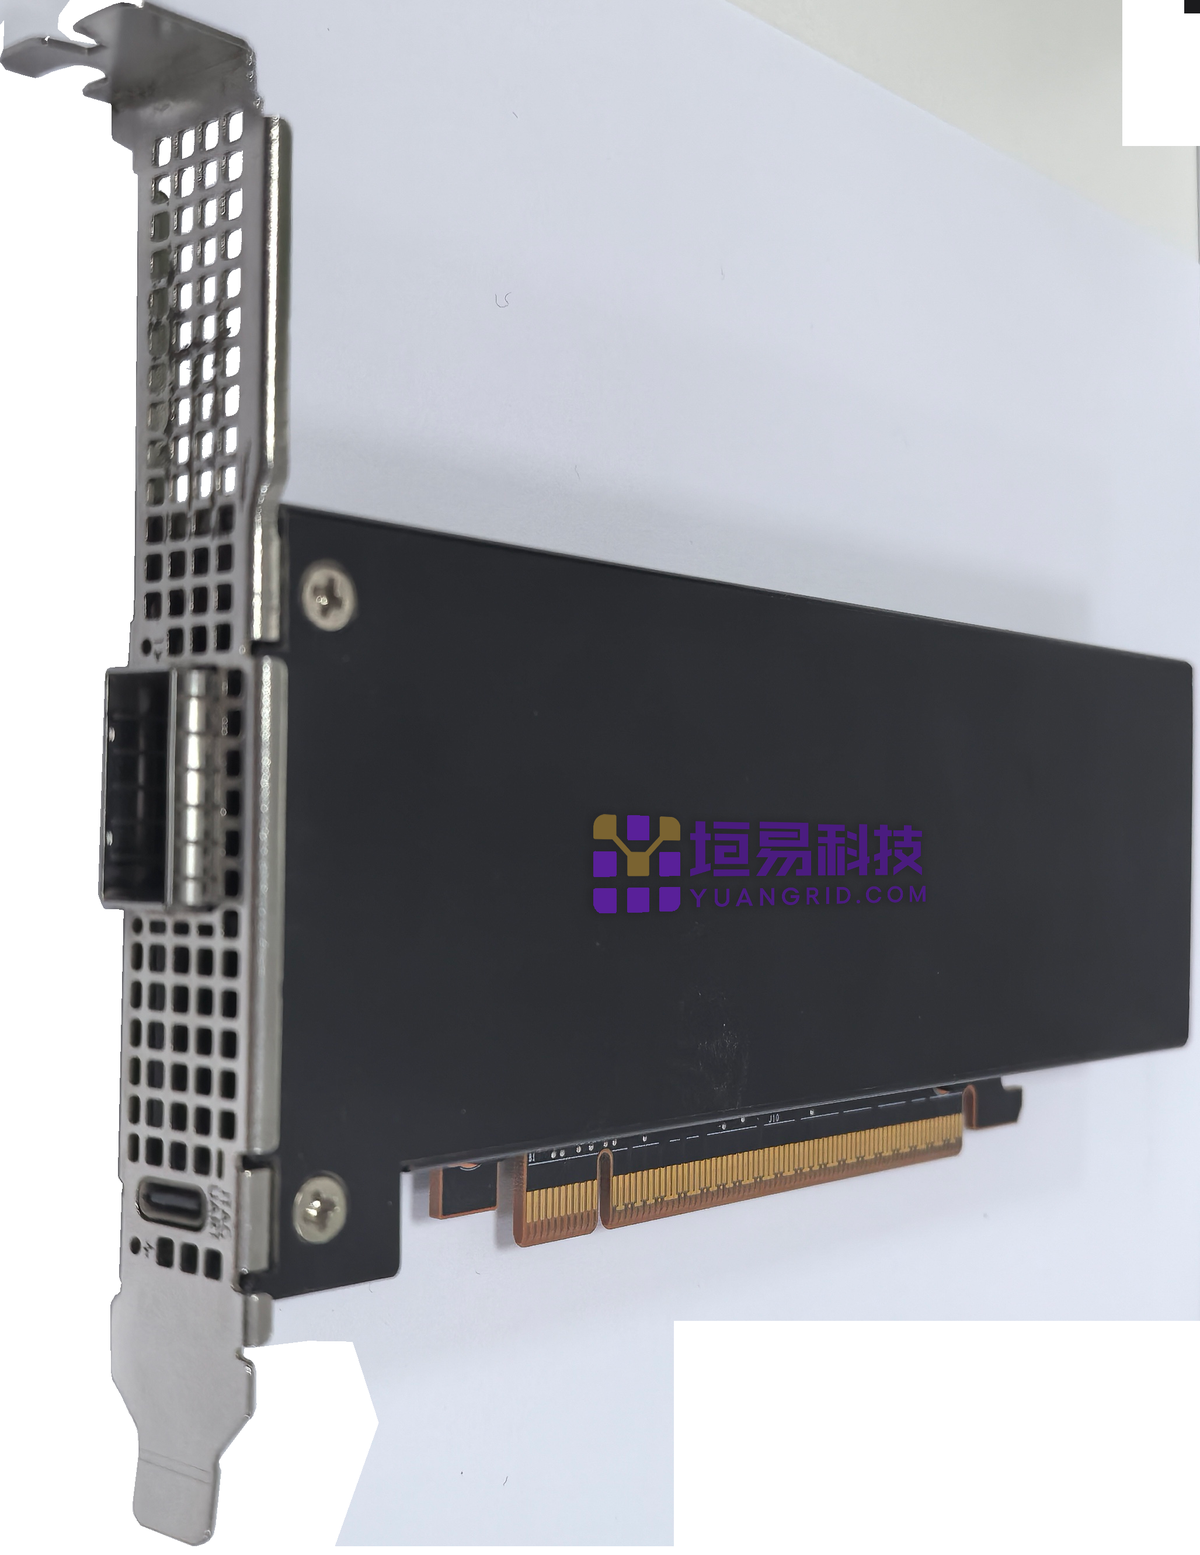
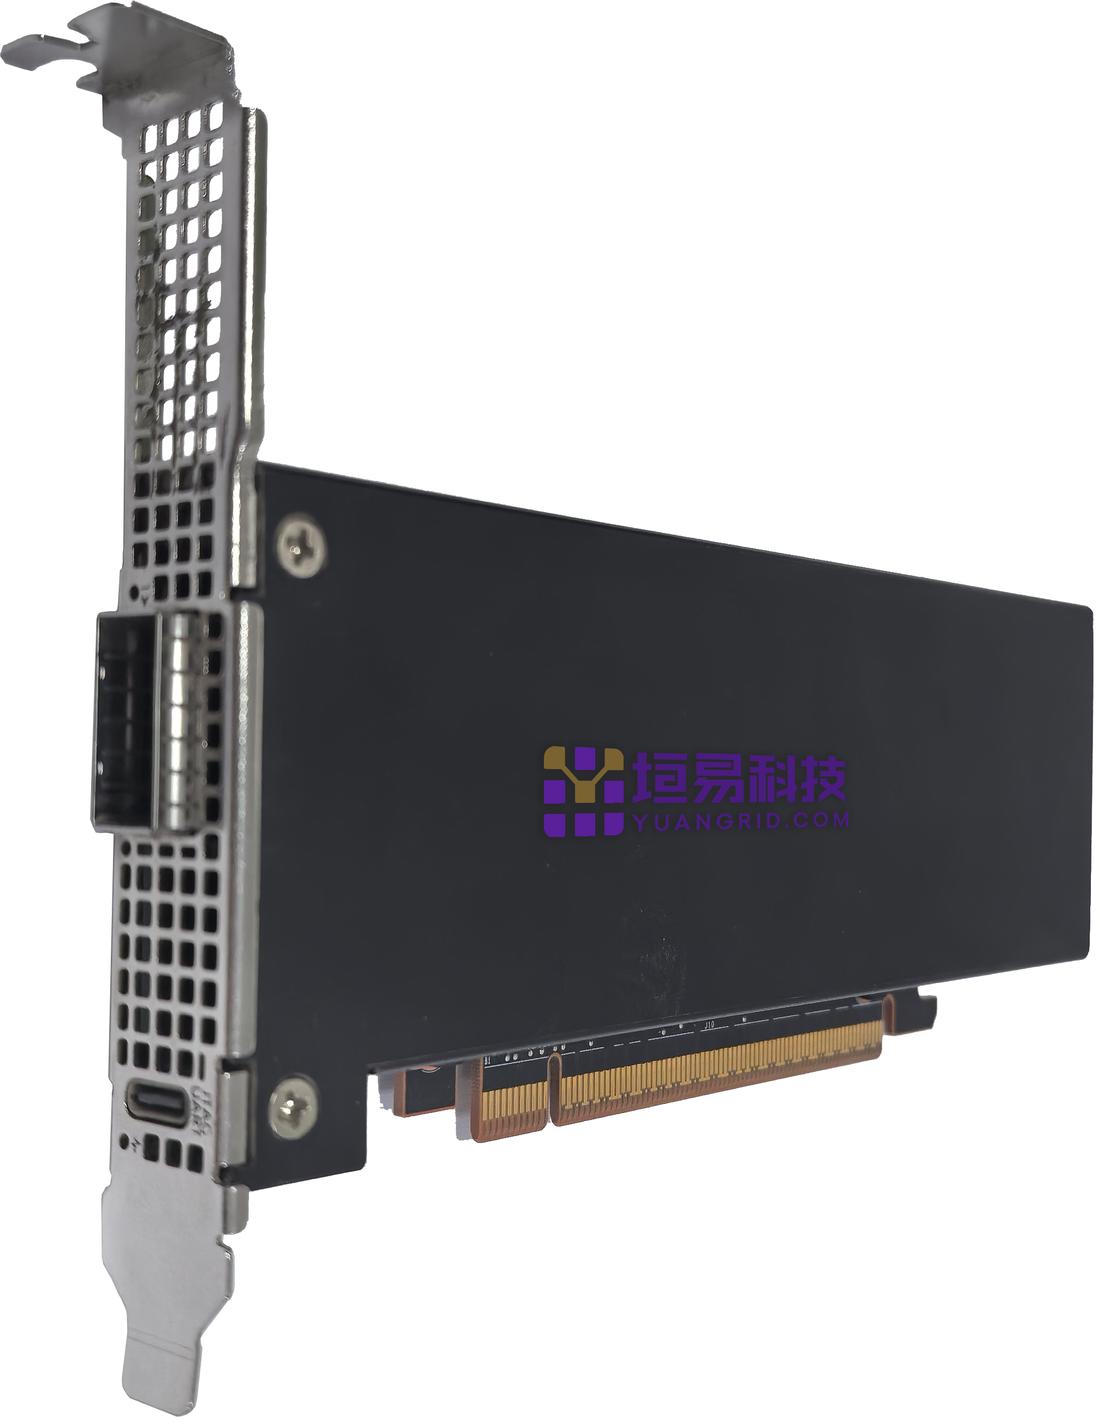
Rebuild the board photo and merge the hardware tables
The downscale to a 1200 px palette image flattened the alpha channel:
58% of the frame was transparent background and came out as solid
white, leaving a hard-edged block across the bottom-right and a smaller
one in the top-right corner.

Rebuild from the 2055 px RGBA original in 9fe43b5, recover the
premultiplied pixel colours, composite onto white and drop the 88
isolated specks. The result is 1100 px wide at 628 KB, down from 1.19 MB.

Fold the model table and the key-specifications table into one "item /
specification" table so the hardware section reads as a single block,
and raise the photo width from 300 to 320.

diff --git a/README.en.md b/README.en.md
@@ -110,17 +110,17 @@ Latency (typical): `ib_write_lat` about **2.2 µs**; `ib_read_lat` / `ib_send_la
 ## Supported Hardware
 
 <p align="center">
-  <img src="docs/image/YuanNIC-NH400-A.png" alt="YuanNIC-NH400-A" width="300">
+  <img src="docs/image/YuanNIC-NH400-A.png" alt="YuanNIC-NH400-A" width="320">
 </p>
-
-| Model | FPGA device | Network | Host interface | Configuration | Image prefix |
-|---|---|---|---|---|---|
-| YuanNIC-NH400-A | Agilex 7 I `AGIB027` | 1 × 400G QSFP-112 (F-tile 4x112) | PCIe Gen5 x16 (R-tile) | Active Serial x4 | `YN400GA7B027A` |
-
-**Key Specifications**
 
 | Item | Specification |
 |---|---|
+| Model | YuanNIC-NH400-A |
+| FPGA device | Agilex 7 I `AGIB027` |
+| Network port | 1 × 400G QSFP-112 (F-tile 4x112) |
+| Host interface | PCIe Gen5 x16 (R-tile) |
+| Configuration | Active Serial x4 |
+| Image prefix | `YN400GA7B027A` |
 | Form factor | Single slot, half-height half-length (with full-height bracket) |
 | Dimensions | 169.5 × 68.9 × 18.5 mm |
 | Power | 75 W max |

diff --git a/README.md b/README.md
@@ -110,17 +110,17 @@ YuanNIC 具备面向高速互联的硬件链路时序优化与协议卸载能力
 ## 支持的硬件
 
 <p align="center">
-  <img src="docs/image/YuanNIC-NH400-A.png" alt="YuanNIC-NH400-A" width="300">
+  <img src="docs/image/YuanNIC-NH400-A.png" alt="YuanNIC-NH400-A" width="320">
 </p>
-
-| 型号 | FPGA 器件 | 网口 | 主机接口 | 配置方式 | 镜像型号段 |
-|---|---|---|---|---|---|
-| YuanNIC-NH400-A | Agilex 7 I `AGIB027` | 1 × 400G QSFP-112（F-tile 4x112） | PCIe Gen5 x16（R-tile） | Active Serial x4 | `YN400GA7B027A` |
-
-**主要参数**
 
 | 项 | 参数 |
 |---|---|
+| 型号 | YuanNIC-NH400-A |
+| FPGA 器件 | Agilex 7 I `AGIB027` |
+| 网口 | 1 × 400G QSFP-112（F-tile 4x112） |
+| 主机接口 | PCIe Gen5 x16（R-tile） |
+| 配置方式 | Active Serial x4 |
+| 镜像型号段 | `YN400GA7B027A` |
 | 形态 | 单槽半高半长（配全高挡片） |
 | 尺寸 | 169.5 × 68.9 × 18.5 mm |
 | 功耗 | 最大 75 W |
